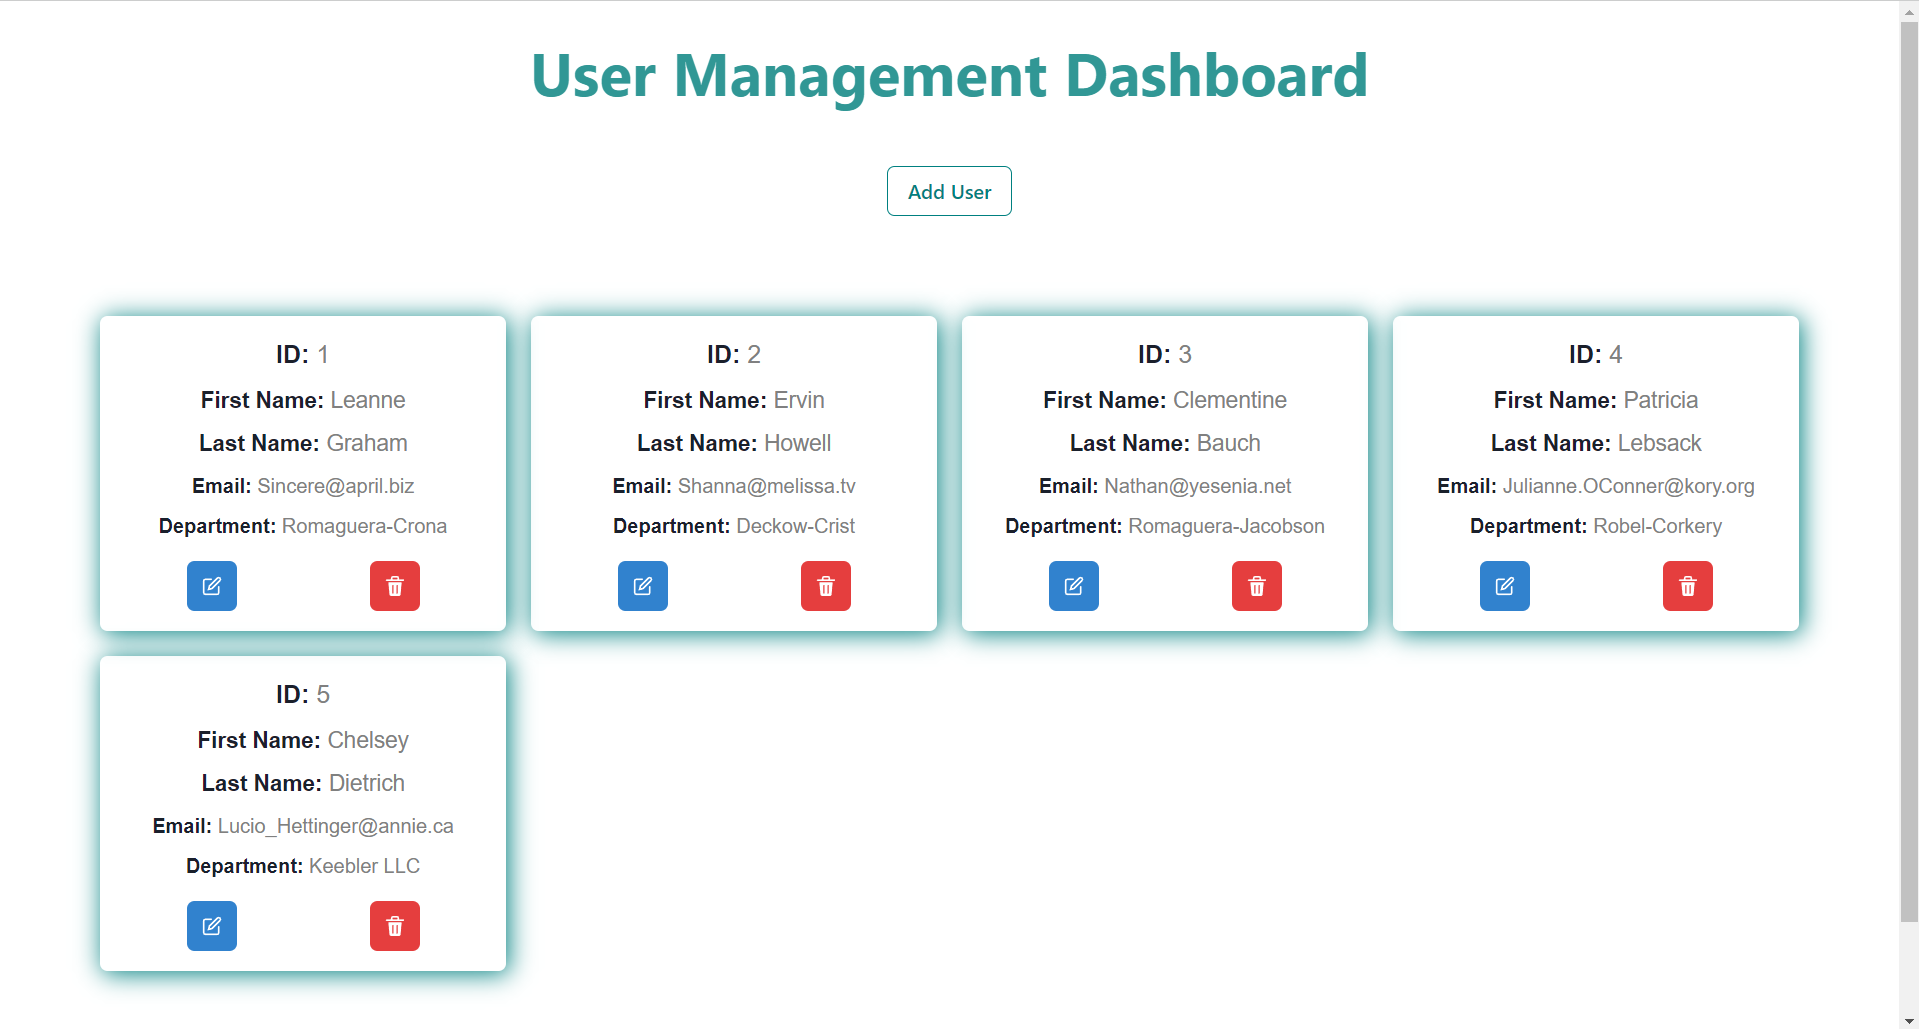
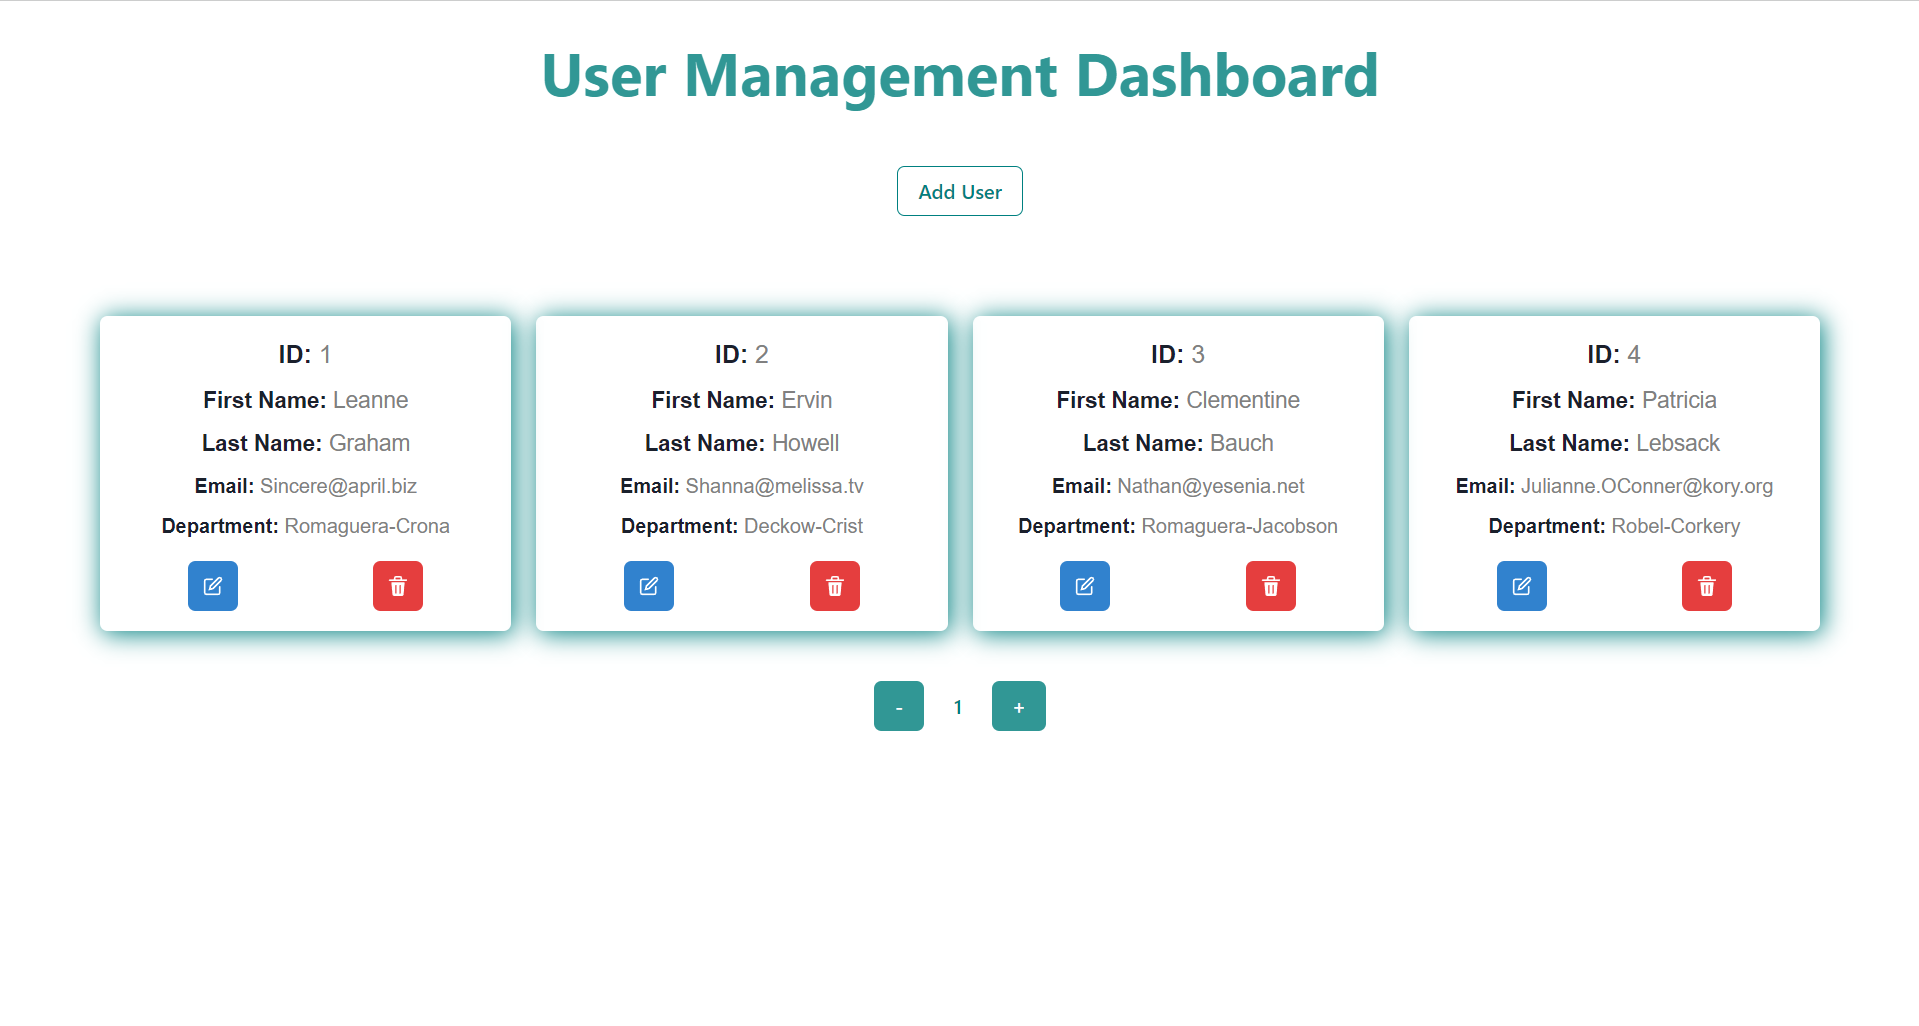
screenshots added in readme

diff --git a/README.md b/README.md
@@ -68,9 +68,9 @@ npm start
 
 ![DashBoard](./user/src/assets/DashBoard.png)
 
-### Dashboard after scroll
+### Pagination
 
-![DashBoard after scroll](./user/src/assets/DashBoard_after_scroll.png)
+![Pagination](./user/src/assets/DashBoard_after_scroll.png)
 
 ### Add user modal
 

diff --git a/user/README.md b/user/README.md
@@ -66,7 +66,7 @@ npm start
 
 ![DashBoard](./src/assets/DashBoard.png)
 
-![DashBoard after scroll](./src/assets/DashBoard_after_scroll.png)
+![Pagination](./src/assets/DashBoard_after_scroll.png)
 
 ![Add user modal](./src/assets/Add_modal.png)
 
